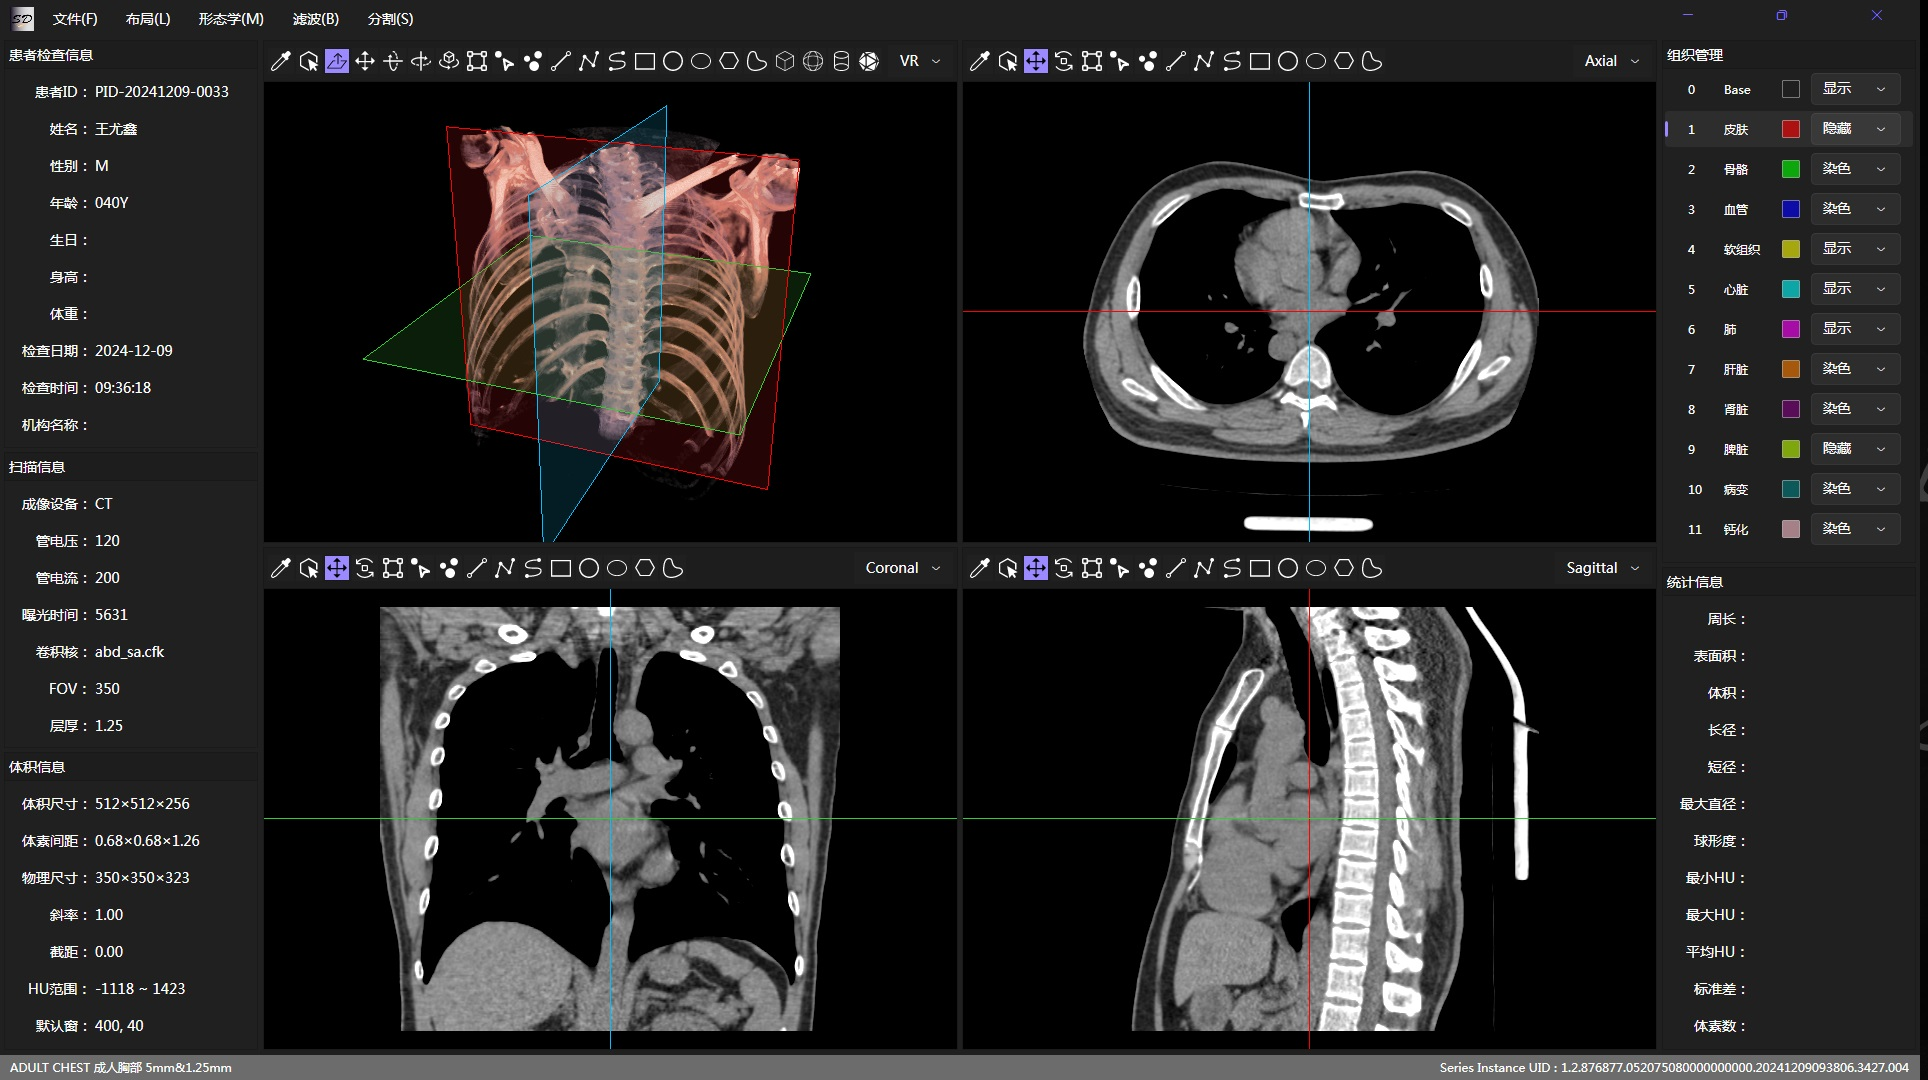
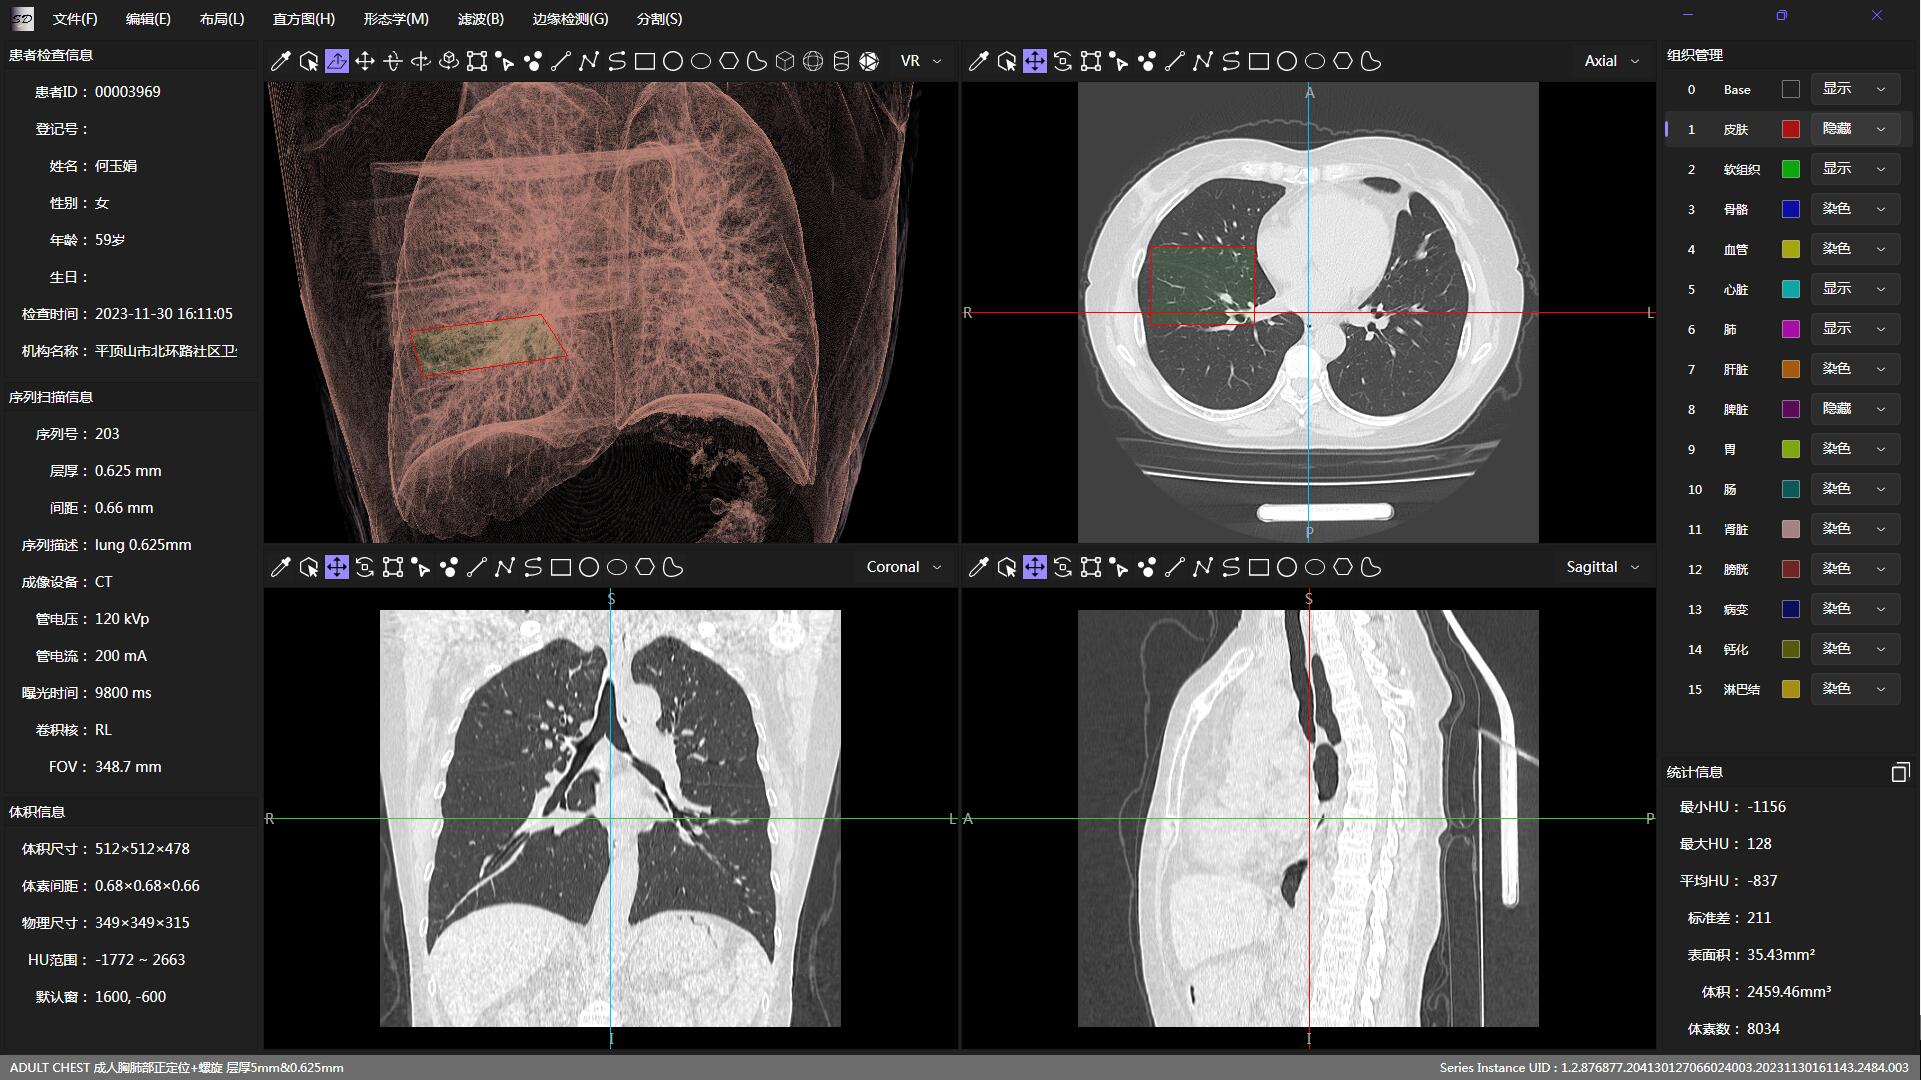
更新readme；

diff --git a/README.MD b/README.MD
@@ -30,7 +30,7 @@
 
     ✅ 双缓冲架构：OriginalTexture + PreviewTexture 实现非破坏性编辑；
 
-    ✅ 三通道计算引擎：CPU (SimpleITK) + GPU (Compute Shader/OpenCL) + AI (ONNX)；
+    ✅ 三通道计算引擎：GPU (Compute Shader/OpenCL) + CPU (SimpleITK) + AI (ONNX)；
 
     ✅ 跨平台支持：Windows/Linux 双平台发布；
 
@@ -55,7 +55,7 @@
         几何体统计、组织统计；
     
     预处理：
-        形态学、滤波、边缘检测、灰度变换、直方图等；
+        直方图、形态学、滤波、边缘检测、灰度变换等；
     
     分割：
         2D/3D几何体分割、阈值分割、区域生长分割、TotalSegmentor分割等；
